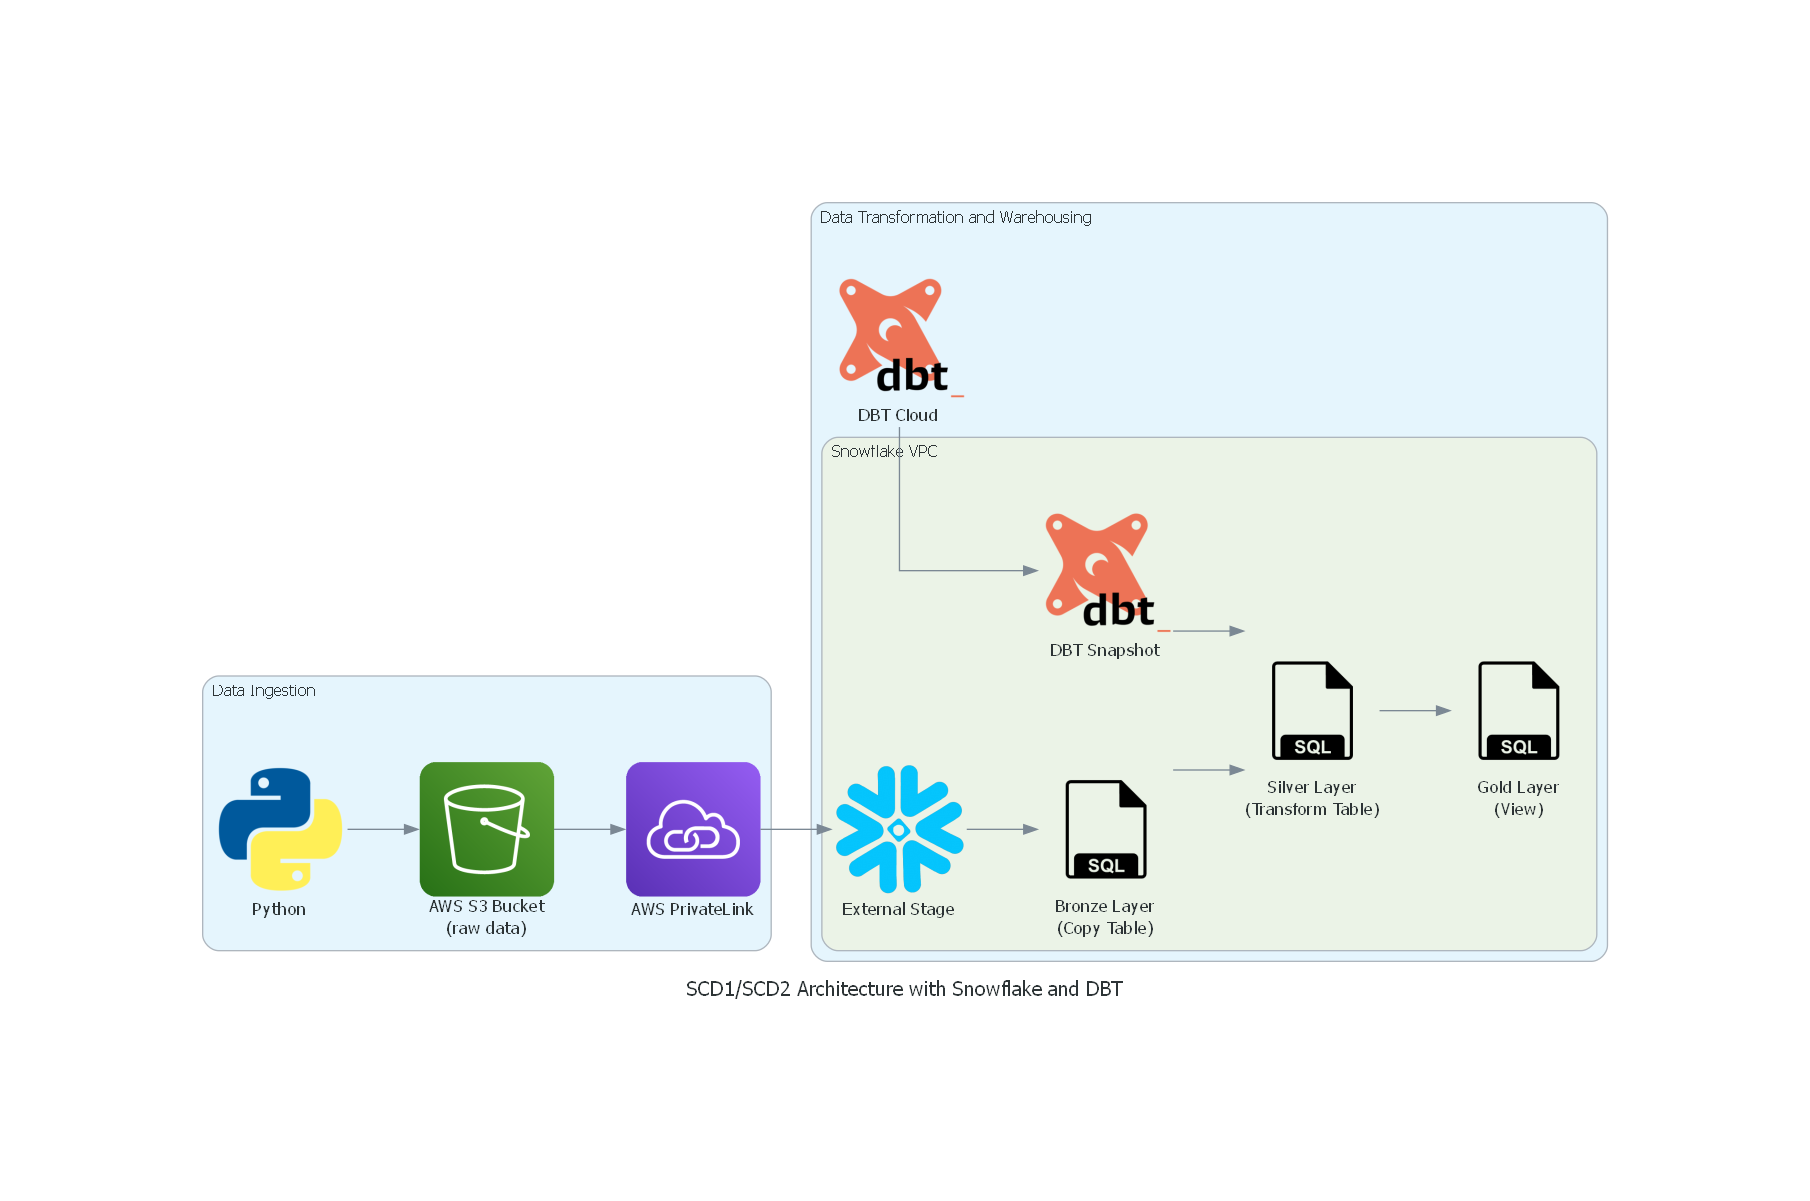
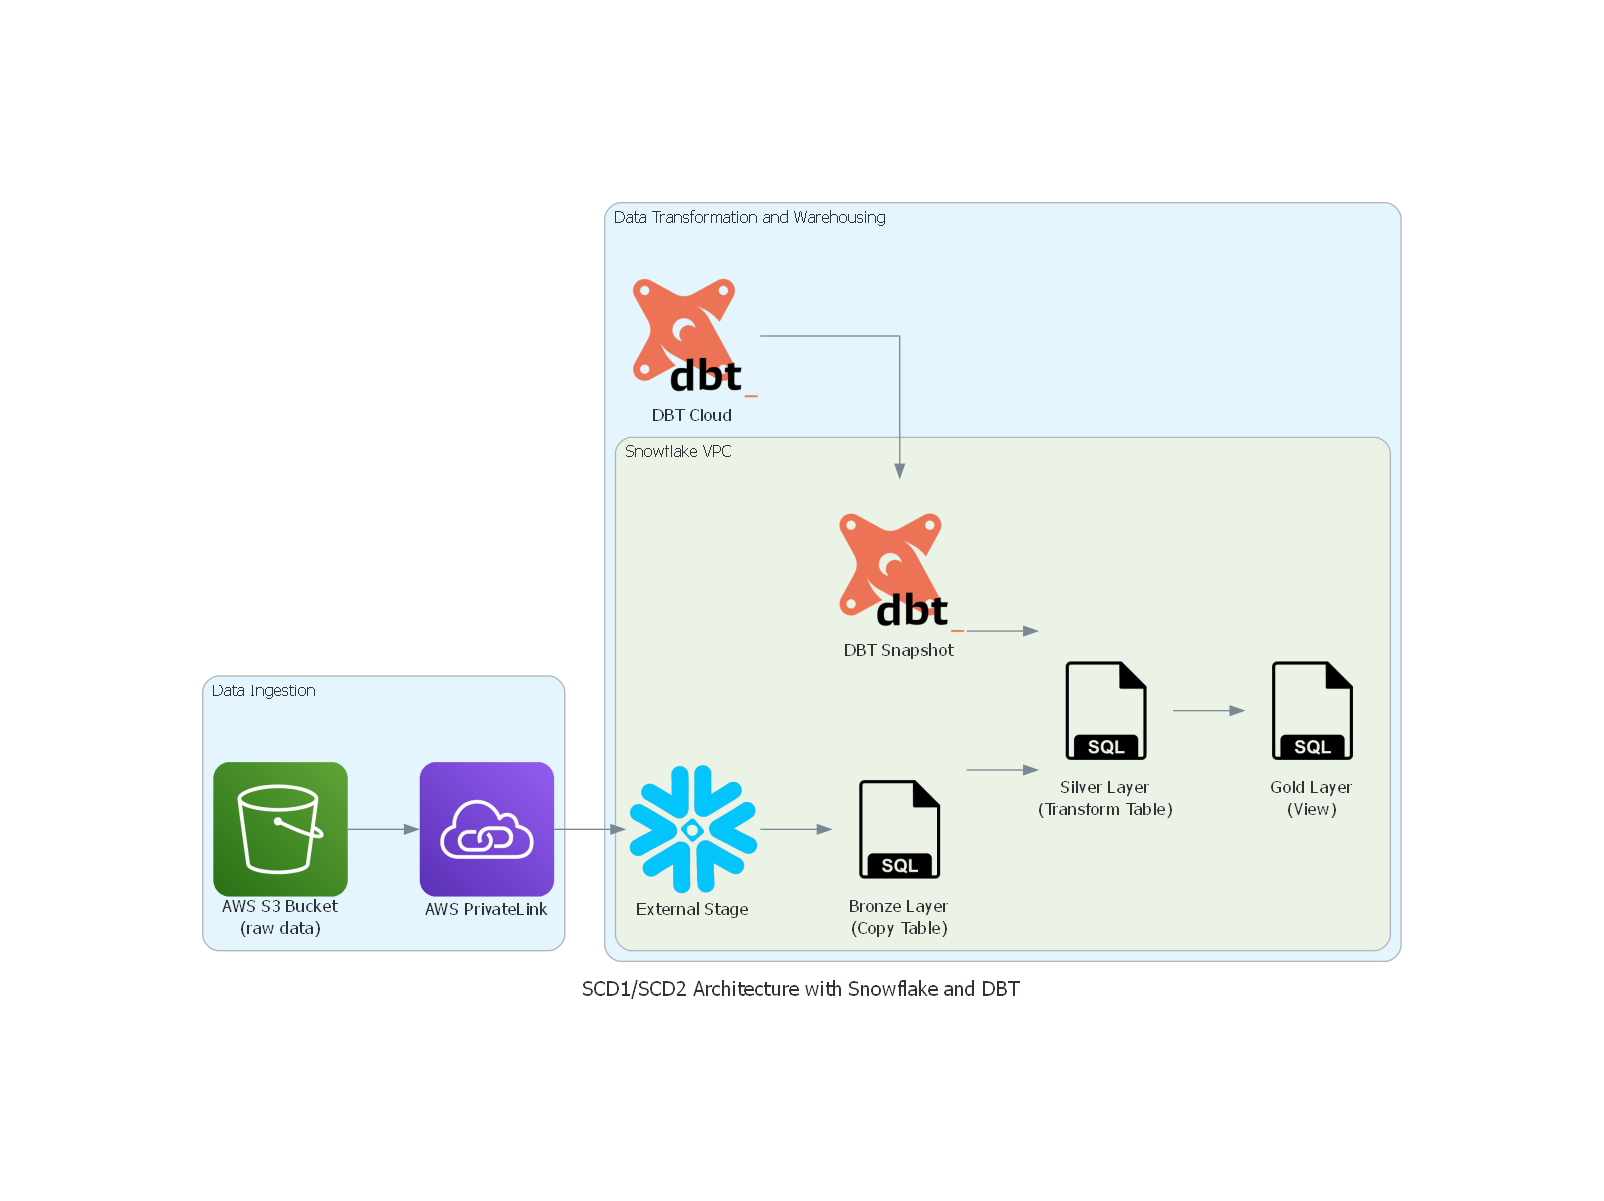
Update Diag

Changed region(s): [[0.0935, 0.154, 0.7481, 0.8318], [0.7793, 0.154, 0.904, 0.801]]

diff --git a/diagrams/Diagram Generator/architecture.py b/diagrams/Diagram Generator/architecture.py
@@ -12,7 +12,6 @@ with Diagram("SCD1/SCD2 Architecture with Snowflake and DBT", show=False, direct
     with Cluster("Data Ingestion"):
         s3 = S3("AWS S3 Bucket\n(raw data)")
         privatelink = Privatelink("AWS PrivateLink")
-        python = Python("Python")
         s3 >> privatelink
 
     with Cluster("Data Transformation and Warehousing"):
@@ -28,5 +27,5 @@ with Diagram("SCD1/SCD2 Architecture with Snowflake and DBT", show=False, direct
 
         dbt_cloud = Dbt("DBT Cloud")
 
-    python >> s3
+    s3
     dbt_cloud >> snapshot
